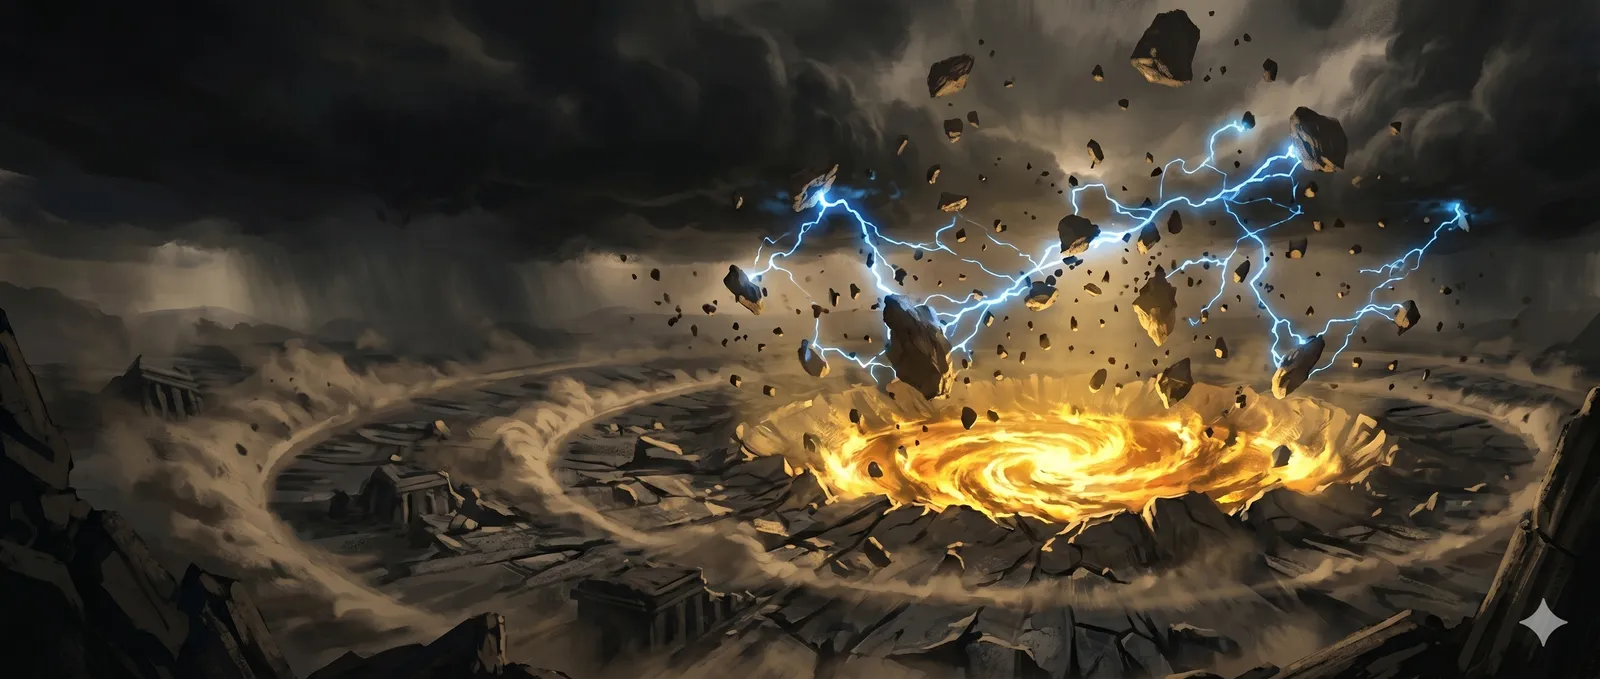
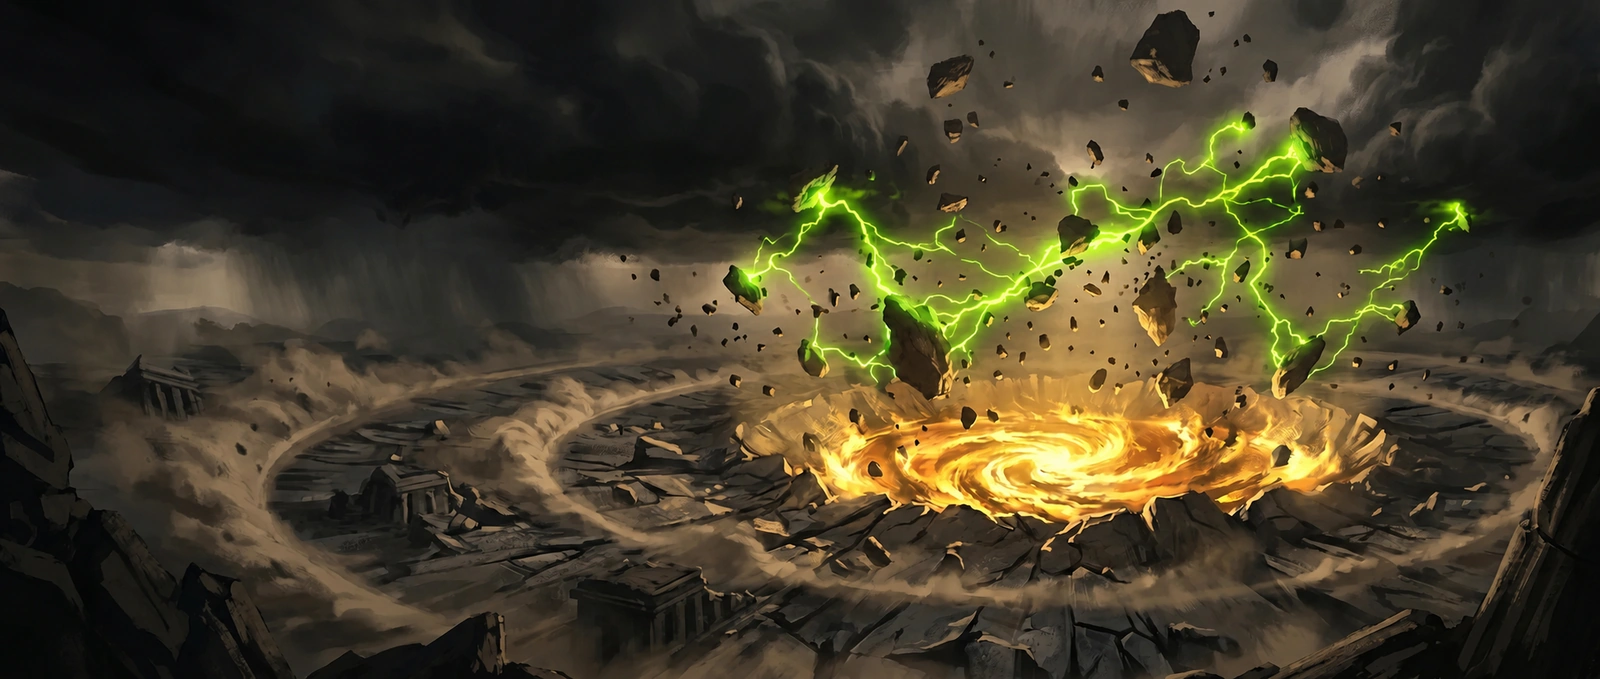
Green preloader burst + updated mid-page image
Recolour the preloader tap explosion (flare, flash, shockwave, exit flash)
from gold to Robinhood lime-green. Include the replaced mid-page image.

diff --git a/src/style.css b/src/style.css
@@ -172,12 +172,12 @@ ul { list-style: none; }
   pointer-events: none;
 }
 
-/* Gold flash on exit: class toggled by JS */
+/* Green flash on exit: class toggled by JS */
 .preloader-stage--flash::after {
   content: '';
   position: absolute;
   inset: 0;
-  background: radial-gradient(circle, rgba(255, 210, 48, 0.6) 0%, transparent 60%);
+  background: radial-gradient(circle, rgba(140, 255, 40, 0.6) 0%, transparent 60%);
   opacity: 0;
   animation: preloader-flash 420ms ease-out forwards;
   pointer-events: none;
@@ -286,7 +286,7 @@ ul { list-style: none; }
 
 /* Burst: flare → shockwave → flash → wipe */
 .preloader-stage--flare .preloader-image {
-  filter: brightness(2.1) saturate(1.3) drop-shadow(0 0 44px rgba(255, 210, 48, 0.9));
+  filter: brightness(2.1) saturate(1.3) drop-shadow(0 0 44px rgba(140, 255, 40, 0.9));
   transform: scale(1.04);
   transition: filter 300ms ease-out, transform 300ms ease-out;
 }
@@ -296,7 +296,7 @@ ul { list-style: none; }
   inset: 0;
   background: radial-gradient(circle at 50% 50%,
     rgba(255, 255, 255, 0.95) 0%,
-    rgba(255, 210, 48, 0.6) 34%,
+    rgba(140, 255, 40, 0.6) 34%,
     transparent 70%);
   opacity: 0;
   pointer-events: none;
@@ -310,9 +310,9 @@ ul { list-style: none; }
   width: 44px;
   height: 44px;
   margin: -22px 0 0 -22px;
-  border: 5px solid rgba(255, 245, 194, 0.95);
+  border: 5px solid rgba(220, 255, 180, 0.95);
   border-radius: 50%;
-  box-shadow: 0 0 44px 10px rgba(255, 210, 48, 0.7), inset 0 0 24px rgba(255, 210, 48, 0.5);
+  box-shadow: 0 0 44px 10px rgba(140, 255, 40, 0.7), inset 0 0 24px rgba(140, 255, 40, 0.5);
   opacity: 0;
   transform: scale(0);
   pointer-events: none;
